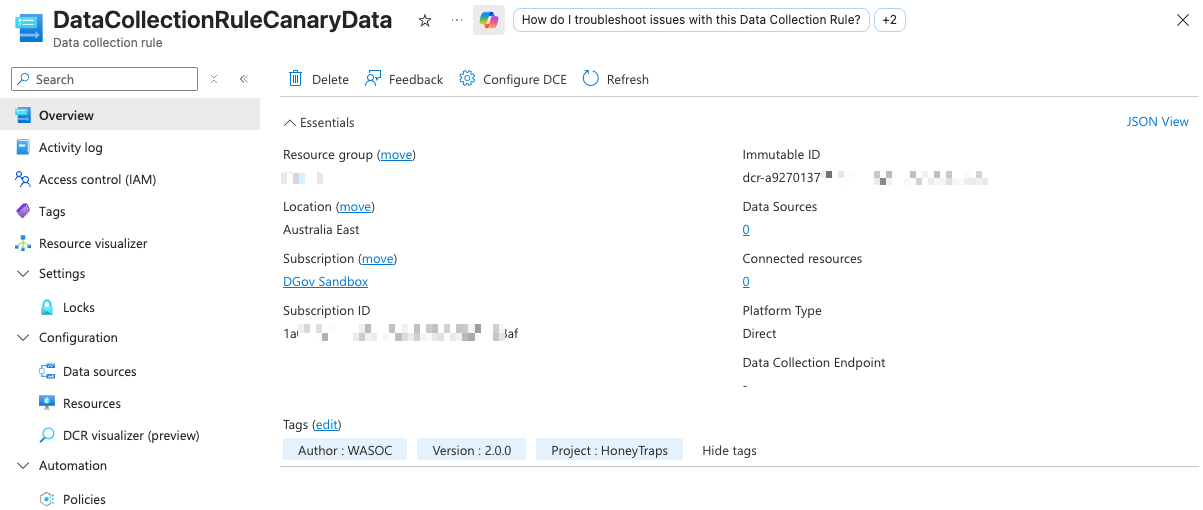
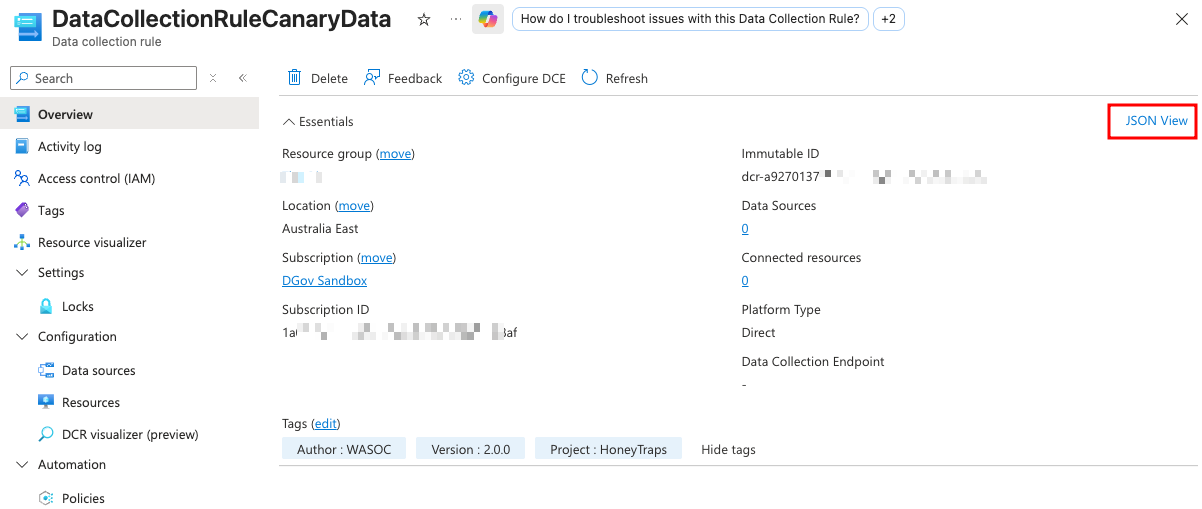
Updates

diff --git a/README.md b/README.md
@@ -90,8 +90,6 @@ Field description:
 ### Step 3.
 Review and ensure all details provided in the deployment are correct and proceed with creating the resources. Otherwise, select the 'previous' button to go back and make any changes.
 
-![Screenshot of Review and Create page](./images/review-and-create-page-ss.png)
-
 ### Step 4.
 Click on the Data Collection Rule resource that was just deployed and in the overview of the DCR, select JSON View on the top right hand corner. 
 
